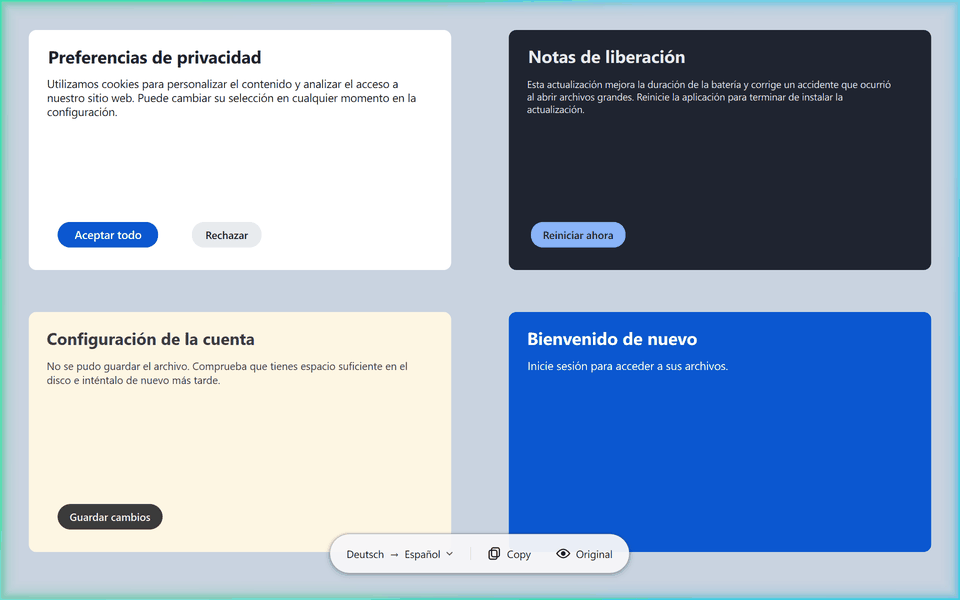
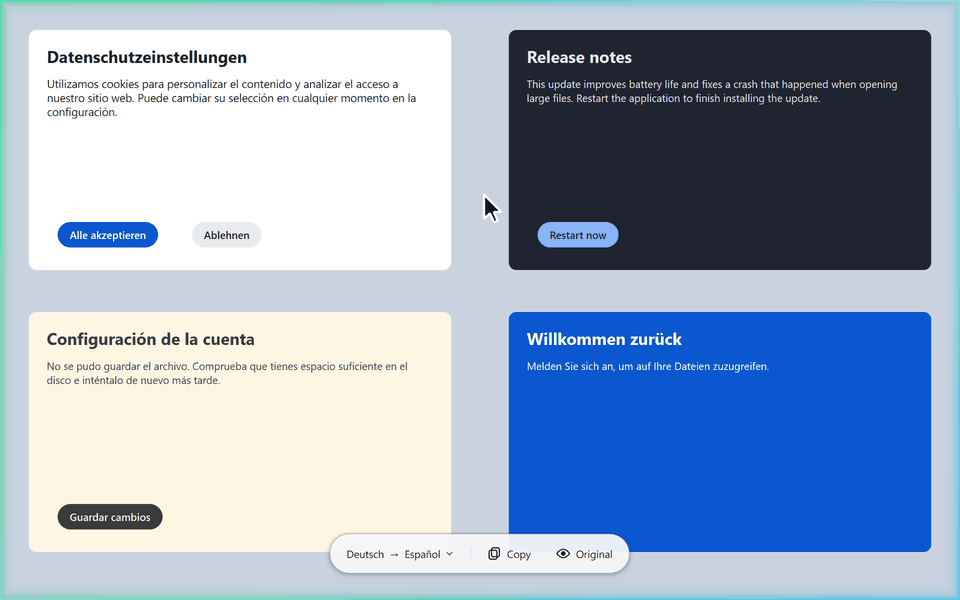
Re-record the README demo: one clear story with the real effects
A virtual clock drives the overlay animations, so the glow entry, shimmer and fade in are
captured frame by frame. The demo shows F1, a mouse rectangle over one paragraph and the
translation in place, with a visible key and pointer.

diff --git a/tools/record_demo.py b/tools/record_demo.py
@@ -2,6 +2,11 @@
 
     python tools/record_demo.py shots/test150.png shots/demo_frames
 Then build the GIF with tools/make_gif.py (needs Pillow, a development only dependency).
+
+The overlay animates from `overlay.now()`. Grabbing a frame takes longer than a frame lasts, so
+the overlay clock is replaced by a virtual one that advances exactly one frame per capture: the
+glow entry, the shimmer and the fade in come out complete and smooth. One simple story: press
+F1, drag a rectangle over a paragraph with the mouse, the translation appears in place.
 """
 
 import sys
@@ -12,11 +17,55 @@ sys.path.insert(0, str(Path(__file__).resolve().parent))
 sys.path.insert(0, str(Path(__file__).resolve().parents[1]))
 
 from drive_overlay import Driver  # noqa: E402
-from PySide6.QtCore import QEvent, Qt  # noqa: E402
+from PySide6.QtCore import QEvent, QPointF, QRectF, Qt  # noqa: E402
+from PySide6.QtGui import QColor, QFont, QImage, QPainter, QPainterPath, QPen  # noqa: E402
 from PySide6.QtWidgets import QApplication  # noqa: E402
 
 from keept import i18n  # noqa: E402
 from keept.platform import services  # noqa: E402
+
+FRAME_MS = 40  # 25 fps
+
+
+def draw_cursor(img: QImage, pos: QPointF) -> None:
+    """A standard arrow pointer, since widget grabs do not include the mouse cursor.
+    Coordinates are logical: the image carries the device pixel ratio."""
+    p = QPainter(img)
+    p.setRenderHint(QPainter.Antialiasing)
+    s = 1.9  # the GIF is shown at half size: a bigger pointer stays visible
+    x, y = pos.x(), pos.y()
+    pts = [(0, 0), (0, 17), (4.2, 13.2), (7, 19.5), (9.6, 18.4), (6.9, 12.3), (12.2, 12.3)]
+    path = QPainterPath()
+    path.moveTo(x, y)
+    for px, py in pts[1:]:
+        path.lineTo(x + px * s, y + py * s)
+    path.closeSubpath()
+    p.setPen(QPen(QColor(255, 255, 255), 1.6 * s))
+    p.setBrush(QColor(20, 20, 20))
+    p.drawPath(path)
+    p.end()
+
+
+def draw_key(img: QImage, label: str, pressed: bool) -> None:
+    """A keycap in the top left corner, to show which key starts KeepT."""
+    p = QPainter(img)
+    p.setRenderHint(QPainter.Antialiasing)
+    w, h = 104.0, 88.0
+    x, y = 28.0, 22.0 + (4 if pressed else 0)
+    if not pressed:
+        p.setBrush(QColor(0, 0, 0, 70))
+        p.setPen(Qt.NoPen)
+        p.drawRoundedRect(QRectF(x, y + 7, w, h), 16, 16)
+    p.setBrush(QColor(250, 250, 252))
+    p.setPen(QPen(QColor(0, 212, 255) if pressed else QColor(190, 196, 206), 3.5))
+    p.drawRoundedRect(QRectF(x, y, w, h), 16, 16)
+    f = QFont("Segoe UI")
+    f.setPixelSize(40)
+    f.setWeight(QFont.DemiBold)
+    p.setFont(f)
+    p.setPen(QColor(30, 34, 44))
+    p.drawText(QRectF(x, y, w, h), Qt.AlignCenter, label)
+    p.end()
 
 
 def main() -> int:
@@ -26,47 +75,79 @@ def main() -> int:
     out = Path(sys.argv[2])
     out.mkdir(parents=True, exist_ok=True)
     d = Driver(sys.argv[1], out, False, "es", None, False)
-    d.engine.preload("es", download=False, sources=("de", "en"))
+    # Load and warm the model first, so the recording shows the real speed of a warm KeepT.
+    d.engine.translator.translate(["Hallo Welt."], "de", "es")
+    vt = [0.0]
+    d.ov.now = lambda: vt[0]
+    dpr = d.ov.devicePixelRatioF()
     n = 0
+    cursor: list[QPointF | None] = [None]
 
-    def frame(hold_ms: int = 60) -> None:
+    def frame(hold_ms: int = FRAME_MS, key: str | None = None, base: QImage | None = None) -> None:
         nonlocal n
-        img = d.ov.grab().toImage()
+        img = base.copy() if base is not None else d.ov.grab().toImage()
+        img.setDevicePixelRatio(dpr)
+        if key:
+            draw_key(img, "F1", key == "down")
+        if cursor[0] is not None:
+            draw_cursor(img, cursor[0])
         img.save(str(out / f"{n:03d}_{hold_ms}.png"))
         n += 1
 
-    def film(ms: int, step: int = 60) -> None:
-        end = time.perf_counter() + ms / 1000
-        while time.perf_counter() < end:
-            d.pump(step)
-            frame(step)
+    def step(hold_ms: int = FRAME_MS, key: str | None = None) -> None:
+        QApplication.processEvents()
+        vt[0] += hold_ms
+        d.ov.repaint()
+        frame(hold_ms, key)
 
-    frame(700)  # the plain screen before the shortcut
+    def film(ms: float, hold_ms: int = FRAME_MS) -> None:
+        for _ in range(int(ms // hold_ms)):
+            step(hold_ms)
+
+    # 1. The plain screen, then the F1 key goes down.
+    plain = QImage(sys.argv[1]).convertToFormat(QImage.Format_ARGB32)
+    cursor[0] = QPointF(d.ov.width() * 0.62, d.ov.height() * 0.42)
+    frame(900, "up", plain)
+    frame(160, "down", plain)
+
+    # 2. The overlay opens: frozen screen, glow entry, pill.
     d.open()
-    film(700)  # glow entry and pill
+    vt[0] = 0.0
+    for _ in range(5):
+        step(FRAME_MS, "down")
+    film(700)
     d.wait_until(lambda: d.ov.ocr_done, 5000)
-    # drag a rectangle over the German paragraph with the mouse
+
+    # 3. The pointer moves to the paragraph and drags a rectangle over it.
     target = d.ov.blocks[2].rect
-    x0, y0 = target.x - 30, target.y - 25
-    x1, y1 = target.x + target.w + 30, target.y + target.h + 25
-    steps = 22
-    pts = [d.phys_to_logical(x0 + (x1 - x0) * k / steps, y0 + (y1 - y0) * (k / steps) ** 0.9) for k in range(steps + 1)]
-    d._mouse(QEvent.MouseButtonPress, pts[0], Qt.LeftButton, Qt.LeftButton)
-    for i, p in enumerate(pts[1:], 1):
-        d._mouse(QEvent.MouseMove, p, Qt.NoButton, Qt.LeftButton)
-        d.pump(12)
-        if i % 2 == 0:
-            frame(50)
-    frame(250)
-    d._mouse(QEvent.MouseButtonRelease, pts[-1], Qt.LeftButton, Qt.NoButton)
-    film(450, 75)  # shimmer and the translation fading in
+    s = d.ov.scale
+    x0, y0 = (target.x - 28) / s, (target.y - 22) / s
+    x1, y1 = (target.x + target.w + 28) / s, (target.y + target.h + 22) / s
+    start = cursor[0]
+    for k in range(1, 11):
+        e = 1 - (1 - k / 10) ** 3
+        cursor[0] = QPointF(start.x() + (x0 - start.x()) * e, start.y() + (y0 - start.y()) * e)
+        step()
+    d._mouse(QEvent.MouseButtonPress, QPointF(x0, y0), Qt.LeftButton, Qt.LeftButton)
+    for k in range(1, 19):
+        t = k / 18
+        e = t * t * (3 - 2 * t)
+        cursor[0] = QPointF(x0 + (x1 - x0) * e, y0 + (y1 - y0) * e)
+        d._mouse(QEvent.MouseMove, cursor[0], Qt.NoButton, Qt.LeftButton)
+        step()
+    film(200)
+    d._mouse(QEvent.MouseButtonRelease, cursor[0], Qt.LeftButton, Qt.NoButton)
+
+    # 4. Shimmer while translating, then the translation fades in over the original.
+    # About half a second of shimmer (as on a warm PC), then the virtual clock stays still while
+    # the real translation finishes, so saving frames does not stretch the wait in the GIF.
+    film(480)
     d.wait_until(d.translation_done, 20000)
-    film(300, 100)
-    frame(1400)
-    d.key(Qt.Key_Return)  # translate everything
-    film(900, 90)
-    d.wait_until(d.translation_done, 20000)
-    d.pump(300)
+    cursor[0] = QPointF(x1 + 60, y1 + 90)  # move the pointer out of the way
+    film(700)
+
+    # 5. Hold the result so it can be read, with the glow still pulsing.
+    film(1600, 100)
     frame(2600)
     d.key(Qt.Key_Escape)
     d.engine.shutdown()
